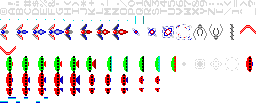
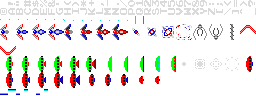
Refinements to enemiesand lasers.

diff --git a/src/player.c b/src/player.c
@@ -14,8 +14,10 @@ void PlayerInit(Player *player, u8 index) {
 
     player->active = 1;
     player->animTime = 0;
+    player->superWeaponSeconds = 0;
     player->score = 0;
     player->scoreDelta = 0;
+    player->superWeaponFireTimer = 0;
 
     player->clawTime = 0;
     player->fireButton = 0;
@@ -68,15 +70,12 @@ void PlayerInput(Player *player) {
     if(controls[player->index] & BTN_A) {
         if(!player->fireButton) {
             LaserFireNext(player->lasers, PLAYER_LASER_COUNT, player->x - 1, player->y);
-            if(!player->whipline.usable) {
-                if(player->y > 1) {
-                    LaserFireNext(player->extraLasers, PLAYER_EXTRA_LASER_COUNT, player->x - 1, player->y - 3);
-                }
-
-                if(player->y < 25) {
-                    LaserFireNext(player->extraLasers, PLAYER_EXTRA_LASER_COUNT, player->x - 1, player->y + 3);
-                }
+            // Super Weapon Available? Fire that some frames later
+            if(player->superWeaponSeconds && !player->superWeaponFireTimer) {
+                player->superWeaponFireTimer = 6;
+                player->superWeaponY = player->y;
             }
+
             player->fireButton = 1;
         }
     } else if(player->fireButton) {
@@ -167,7 +166,39 @@ void PlayerUpdate(Player *player) {
         i++;
     }
 
-    WhiplineUpdate(&player->whipline);
+    if(WhiplineUpdate(&player->whipline)) {
+        player->superWeaponSeconds = 30;
+        player->timeOut = 60;
+        PrintVerticalRAM(30, 16, "SUPER GUN TIME");
+        PrintU8Vertical(30, 0, player->superWeaponSeconds);
+    }
+
+    if(player->superWeaponFireTimer == 1 && !player->extraLasers[0].active && !player->extraLasers[1].active) {
+        if(player->y > 1) {
+            LaserFireNext(player->extraLasers, PLAYER_EXTRA_LASER_COUNT, player->x - 1, player->superWeaponY - 3);
+        }
+
+        if(player->y < 25) {
+            LaserFireNext(player->extraLasers, PLAYER_EXTRA_LASER_COUNT, player->x - 1, player->superWeaponY + 3);
+        }
+    }
+
+    if(player->superWeaponFireTimer) {
+        player->superWeaponFireTimer--;
+    }
+
+    if(player->superWeaponSeconds) {
+        player->timeOut--;
+        if(!player->timeOut){
+            player->superWeaponSeconds--;
+            if(player->superWeaponSeconds) {
+                PrintU8Vertical(30, 0, player->superWeaponSeconds);
+                player->timeOut = 60;
+            } else {
+                Fill(30, 0, 1, 17, 0);
+            }
+        }
+    }
 
     if(player->scoreDelta) {
         player->score += player->scoreDelta;

diff --git a/src/enemy.c b/src/enemy.c
@@ -22,13 +22,14 @@ void EnemyInit(Enemy *enemy) {
     enemy->x = END_POINT_X;
     enemy->active = 1;
     enemy->dieTime = 0;
+    enemy->moveTime = 0;
     enemy->score = 1;
-    enemy->preTime = 60;
+    enemy->preTime = 30;
     EnemyDraw(enemy);
 }
 
 u8 EnemyIsCollidable(Enemy *enemy) {
-    return enemy->active && !enemy->dieTime;
+    return enemy->active && !enemy->dieTime && !enemy->preTime;
 }
 
 void EnemyKill(Enemy *enemy) {
@@ -53,6 +54,22 @@ void EnemyUpdate(Enemy *enemy) {
                 return;
         }
         enemy->dieTime++;
+        return;
+    } else if(enemy->preTime) {
+        enemy->preTime--;
+        if(!enemy->preTime) {
+            if(bgTime < 8) {
+                Fill(BACKGROUND_LINE_X, enemy->y, 1, ENEMY_SIZE, BACKGROUND_LINE_TILE_START);
+            } else if(bgTime < 16 || bgTime >= 24) {
+                Fill(BACKGROUND_LINE_X, enemy->y, 1, ENEMY_SIZE, BACKGROUND_LINE_TILE_START + 1);
+            } else {
+                Fill(BACKGROUND_LINE_X, enemy->y, 1, ENEMY_SIZE, 0);
+            }
+            EnemyDraw(enemy);
+        } else if(bgTime % 8 == 1) {
+            EnemyDraw(enemy);
+        }
+
         return;
     }
 
@@ -86,6 +103,15 @@ void EnemyDraw(Enemy *enemy) {
             DrawMap(enemy->x, enemy->y, mapEnemyExplode[2]);
         } else {
             DrawMap(enemy->x, enemy->y, mapEnemyExplode[3]);
+        }
+        return;
+    } else if(enemy->preTime) {
+        if(bgTime < 8) {
+            DrawMap(BACKGROUND_LINE_X - 1, enemy->y, mapEnemyPre[0]);
+        } else if(bgTime < 16 || bgTime >= 24) {
+            DrawMap(BACKGROUND_LINE_X - 1, enemy->y, mapEnemyPre[1]);
+        } else {
+            DrawMap(BACKGROUND_LINE_X - 1, enemy->y, mapEnemyPre[2]);
         }
         return;
     }

diff --git a/src/whipline.c b/src/whipline.c
@@ -21,9 +21,9 @@ u8 WhiplineIsCollidable(Whipline *whipline) {
     return whipline->active && !whipline->grabbedTime;
 }
 
-void WhiplineUpdate(Whipline *whipline) {
+u8 WhiplineUpdate(Whipline *whipline) {
     if(!whipline->active) {
-        return;
+        return 0;
     }
 
     u8 i = whipline->x, whipIndex = 0;
@@ -36,14 +36,14 @@ void WhiplineUpdate(Whipline *whipline) {
             whipline->x--;
             if(whipline->x <= END_POINT_X) {
                 WhiplineDeactivate(whipline);
-                return;
+                return 0;
             }
         } else {
             whipline->grabbedTime++;
             if(whipline->grabbedTime >= 13) {
                 whipline->usable = 0;
                 WhiplineDeactivate(whipline);
-                return;
+                return 1;
             }
         }
     } else {
@@ -58,6 +58,8 @@ void WhiplineUpdate(Whipline *whipline) {
         }
         i++;
     }
+
+    return 0;
 }
 
 void WhiplineDeactivate(Whipline *whipline) {

diff --git a/src/player.h b/src/player.h
@@ -12,11 +12,12 @@
 #define PLAYER_SIZE 2
 
 #define PLAYER_LASER_COUNT 2
-#define PLAYER_EXTRA_LASER_COUNT 4
+#define PLAYER_EXTRA_LASER_COUNT 2
 
 typedef struct {
     u8 lane, x, y, active, animTime, killTime, index, destY, clawTime, scoreDelta;
-    u8 fireButton, whipButton, leftStick, rightStick;
+    u8 fireButton, whipButton, leftStick, rightStick, superWeaponSeconds, timeOut;
+    u8 superWeaponY, superWeaponFireTimer;
     u16 score;
     Laser lasers[PLAYER_LASER_COUNT];
     Laser extraLasers[PLAYER_EXTRA_LASER_COUNT];

diff --git a/src/gfx.h b/src/gfx.h
@@ -10,6 +10,7 @@ extern const char gfxTiles[];
 extern const char *mapPlayer[];
 extern const char *mapWhipline[];
 extern const char *mapEnemy[];
+extern const char *mapEnemyPre[];
 extern const char *mapEnemyExplode[];
 
 extern const char mapPlayerHalfClawLeft[];

diff --git a/src/gfx.c b/src/gfx.c
@@ -29,6 +29,12 @@ const char *mapEnemy[] = {
     mapEnemy5
 };
 
+const char *mapEnemyPre[] = {
+    mapEnemyPre0,
+    mapEnemyPre1,
+    mapEnemyPre2
+};
+
 const char *mapEnemyExplode[] = {
     mapEnemyExplode0,
     mapEnemyExplode1,

diff --git a/src/whipline.h b/src/whipline.h
@@ -13,6 +13,6 @@ typedef struct {
 
 void WhiplineInit(Whipline *, u8);
 u8 WhiplineIsCollidable(Whipline *);
-void WhiplineUpdate(Whipline *);
+u8 WhiplineUpdate(Whipline *);
 
 #endif

diff --git a/src/collision.h b/src/collision.h
@@ -8,5 +8,6 @@
 #include "enemy.h"
 
 void CollisionLaserEnemy(Laser *, Enemy *, Player *);
+void CollisionWhiplineEnemy(Whipline *, Enemy *, Player *);
 
 #endif

diff --git a/src/background.h b/src/background.h
@@ -10,7 +10,7 @@
 
 #define BACKGROUND_LINE_X 16
 
-extern u8 backgroundTime;
+extern u8 bgTime;
 
 void BackgroundInit();
 void BackgroundUpdate();
